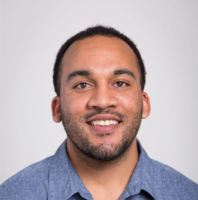
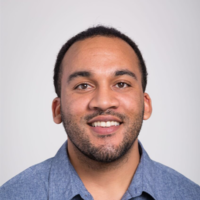
Update department list willing to refer for sourcer

diff --git a/app/models/profile.rb b/app/models/profile.rb
@@ -1,5 +1,5 @@
 class Profile < ApplicationRecord
-  has_attached_file :avatar, styles: { large: "600x600>",medium: "300x300>", small: "200x200>", thumb: "100x100>" }, default_url: "profiledefault.jpg"
+  has_attached_file :avatar, styles: { large: "600x600#",medium: "300x300#", small: "200x200#", thumb: "100x100#" }, default_url: "profiledefault.jpg"
   validates_attachment_content_type :avatar, content_type: /\Aimage\/.*\z/
 
   belongs_to :user

diff --git a/db/migrate/20160914031016_create_profiles.rb b/db/migrate/20160914031016_create_profiles.rb
@@ -17,6 +17,7 @@ class CreateProfiles < ActiveRecord::Migration[5.0]
       t.text :work_history
       t.text :portfolio
       t.text :criteria_question
+      t.text :placeholder
 
       t.timestamps null: false
     end
